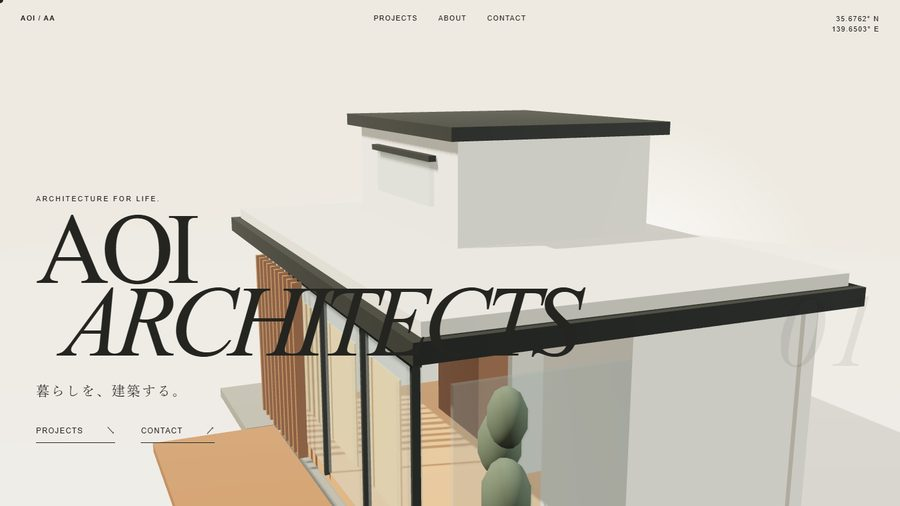
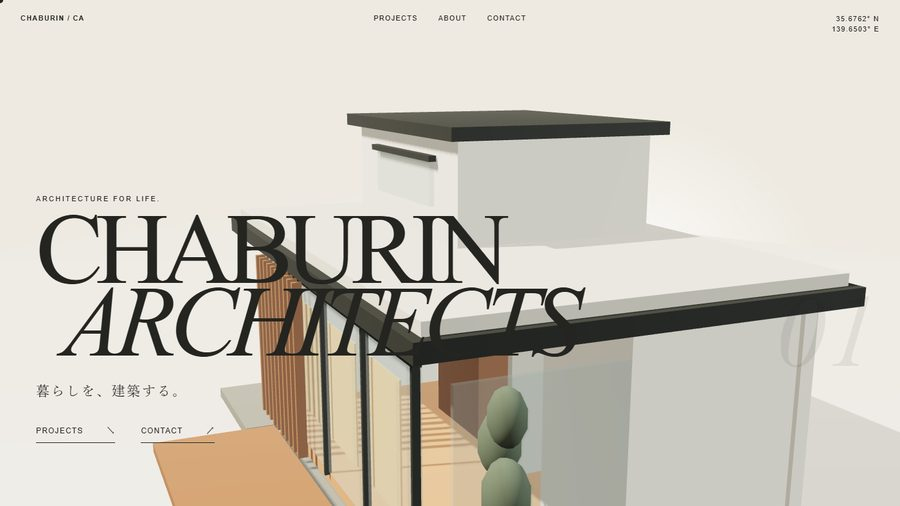
制作実績のCHABURIN ARCHITECTSカードを最新のブランド表記・サムネイルに更新
- 見出しを「蒼建築設計事務所（AOI ARCHITECTS）」から「CHABURIN ARCHITECTS（建築設計事務所）」に修正
- サムネイル画像を、改名後の最新サイトのヒーロー画面に差し替え

Changed region(s): [[0.0311, 0.415, 0.56, 0.5632], [0.0311, 0.0296, 0.0933, 0.0593]]

diff --git a/works.html b/works.html
@@ -283,11 +283,11 @@
 
         <div class="card reveal">
           <div class="card-photo">
-            <img src="assets/images/works/model-architect.jpg" alt="建築設計事務所モデルページ「蒼建築設計事務所」のトップページ画面" loading="lazy" width="900" height="506">
+            <img src="assets/images/works/model-architect.jpg" alt="建築設計事務所モデルページ「CHABURIN ARCHITECTS」のトップページ画面" loading="lazy" width="900" height="506">
           </div>
           <div class="card-body">
             <span class="badge badge-sample">制作モデル・建築設計事務所</span>
-            <h3>蒼建築設計事務所（AOI ARCHITECTS）</h3>
+            <h3>CHABURIN ARCHITECTS（建築設計事務所）</h3>
             <p>Three.jsの3D住宅モデルとスクロール演出を融合した、建築設計事務所向けのハイテクなブランドサイト。外観から内部への「分解と再構築」を、ひとつの物語として描いています。</p>
             <div class="tag-list">
               <span class="tag-pill">建築設計</span>
